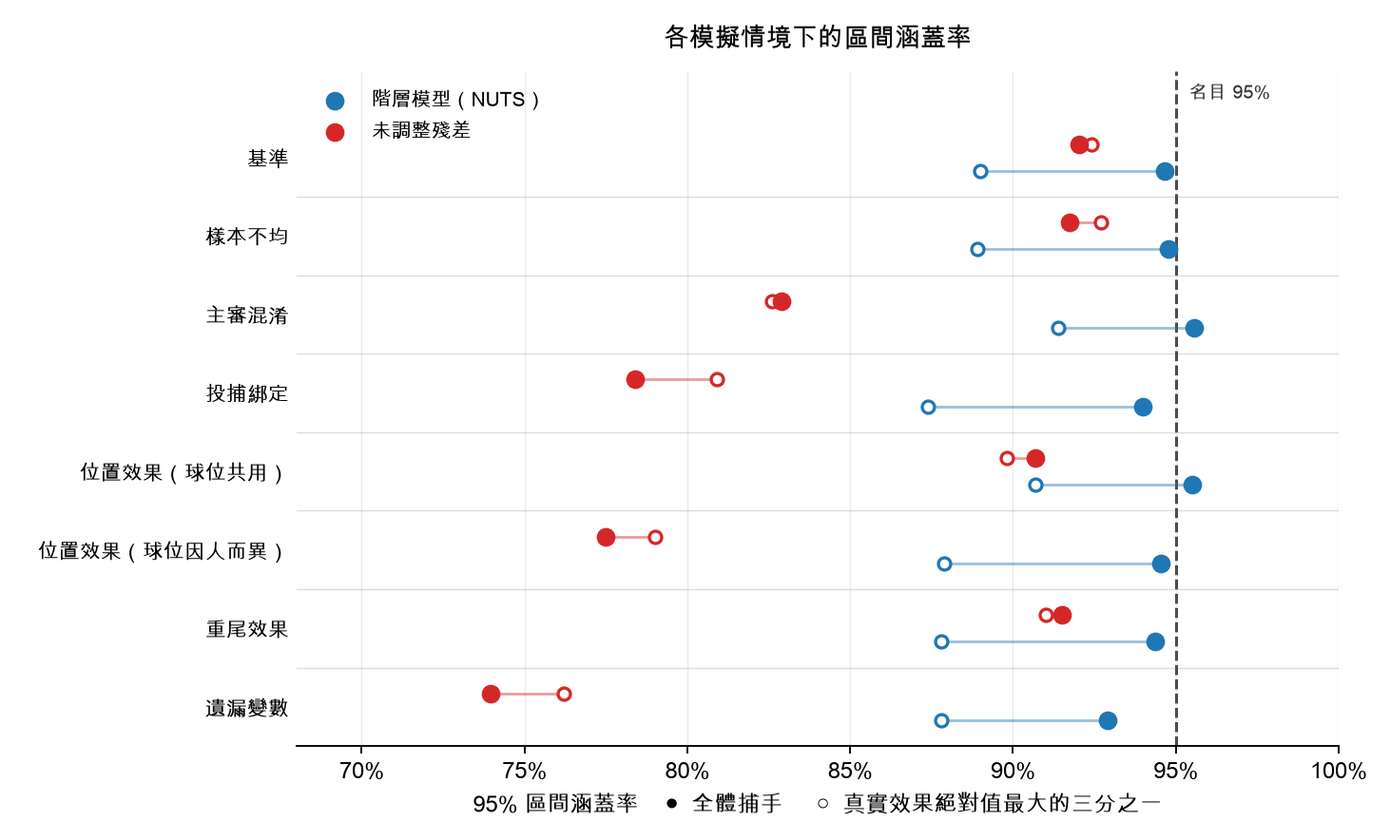
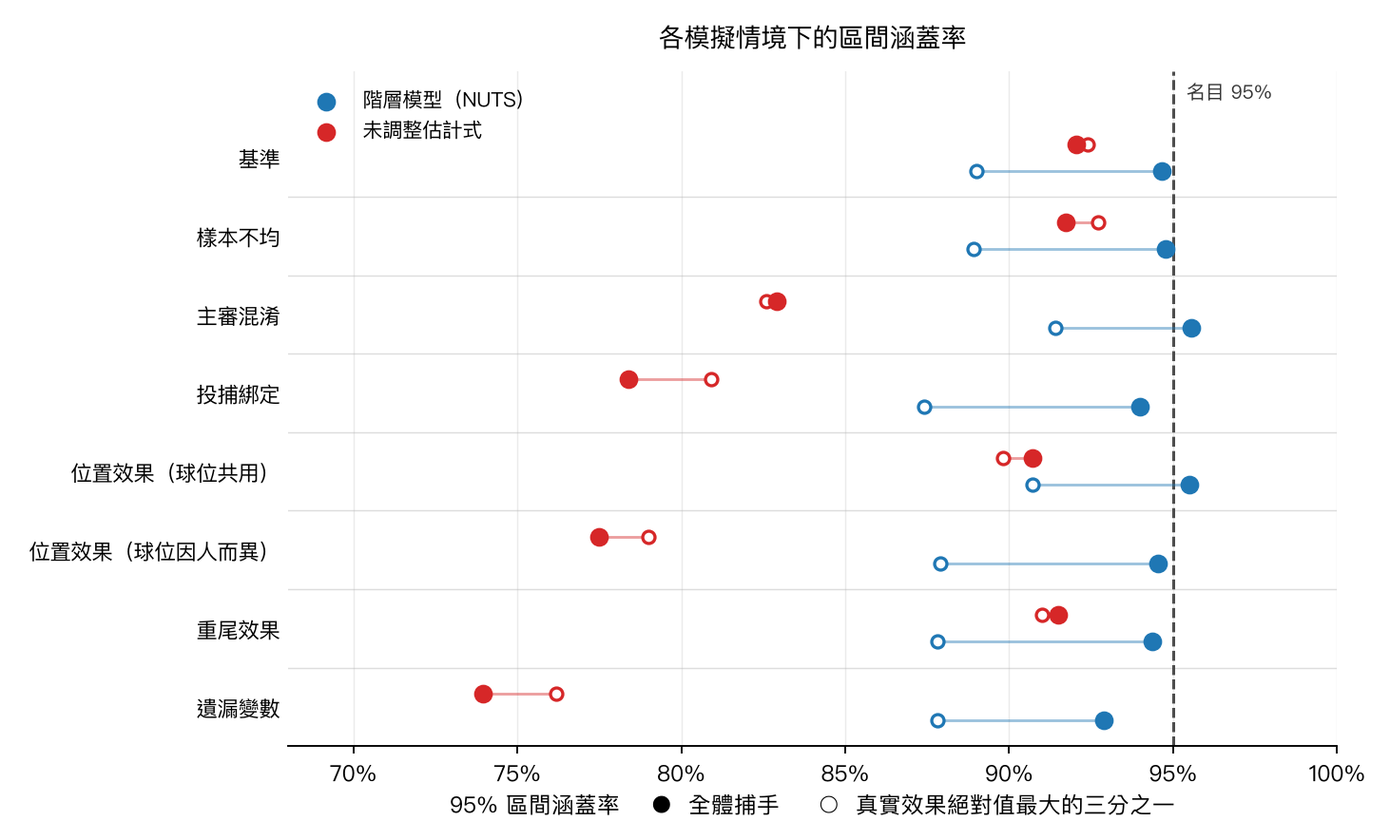
update readme and docs

diff --git a/scripts/make_figures_v2.py b/scripts/make_figures_v2.py
@@ -25,7 +25,7 @@ COLOR = {"hierarchical": "#1f77b4", "residual_runs": "#d62728", "abs": "#d95f02"
 LABELS = {
     "en": {
         "hier": "Hierarchical (NUTS)",
-        "resid": "Residual runs (unadjusted)",
+        "resid": "Unadjusted estimator",
         "nominal": "nominal 95%",
         "sweep_title": "How much confounding before the intervals stop meaning anything",
         "sweep_x": "Unmeasured confounding, relative to the true catcher effect",
@@ -52,7 +52,7 @@ LABELS = {
     },
     "zh": {
         "hier": "階層模型（NUTS）",
-        "resid": "未調整殘差",
+        "resid": "未調整估計式",
         "nominal": "名目 95%",
         "sweep_title": "混淆要多大，區間才會失去意義",
         "sweep_x": "未觀測混淆的大小（相對於真實捕手效果）",

diff --git a/README.md b/README.md
@@ -11,8 +11,8 @@ Some catchers get more strike calls than others on identical pitches. This proje
 **Three findings.**
 
 1. **Some catchers clearly differ from zero, but most adjacent ranks cannot be told apart.** In 2023, 27 of 102 catchers have intervals that exclude zero, and 99 of the 101 adjacent pairs in the ranking are ordered with posterior probability below 0.6. The estimates track Baseball Savant's published framing runs closely (r = 0.94).
-2. **A high correlation with Savant cannot validate the intervals; simulation exposed a coverage gap.** In the simulated confounding scenarios, the simpler residual method's nominal 95% intervals cover 74–83% of the true effects, while the hierarchical model's cover 92.9–95.6% in every scenario, with the baseline treated as known. On real data, the interval on the difference between the two methods' Savant correlations includes zero in four of five seasons, so that check does not separate them.
-3. **Baseline drift distorts the unadjusted residuals; in-model calibration absorbed this season-wide shift.** Fit on 2021–2022, the baseline overpredicts 2025's strike rate by 2.6 points, a shift that comparing log loss across seasons did not reveal. The hierarchical model takes it up in its intercept and still correlates 0.955 with Savant in 2025. The residual method falls to 0.647, and returns to 0.964 once two calibration parameters are re-estimated on that season.
+2. **A high correlation with Savant cannot validate the intervals; simulation exposed a coverage gap.** In the simulated confounding scenarios, nominal 95% intervals from the unadjusted estimator, the common direct approach that averages each catcher's actual minus expected calls, cover 74–83% of the true effects, while the hierarchical model's cover 92.9–95.6% in every scenario, with the baseline treated as known. On real data, the interval on the difference between the two methods' Savant correlations includes zero in four of five seasons, so that check does not separate them.
+3. **Baseline drift distorts the unadjusted estimator; in-model calibration absorbed this season-wide shift.** Fit on 2021–2022, the baseline overpredicts 2025's strike rate by 2.6 points, a shift that comparing log loss across seasons did not reveal. The hierarchical model takes it up in its intercept and still correlates 0.955 with Savant in 2025. The unadjusted estimator falls to 0.647, and returns to 0.964 once two calibration parameters are re-estimated on that season.
 
 <p align="center">
   <img src="docs/images/en/caterpillar_2023.png" width="720"><br>
@@ -33,13 +33,24 @@ This is the second version of the project. What the first version claimed, and w
 - **Estimand.** Δ, on the probability scale and averaged over each catcher's own pitches, is the explicit target, and the simulation scores both methods against the same true Δ.
 - **Out-of-sample design.** Five-fold cross-fitting split by game rather than by pitch. 2023 was locked during model selection, and 2024 and 2025 were fetched only after the design was fixed.
 - **Simulation.** Eight scenarios with 100 replications each, built on real pitch locations and workloads, plus a sweep of confounder strength that measures how large confounding has to be before the intervals fail.
-- **Diagnostics.** A breakdown of how the 2025 baseline drift affected the unadjusted residuals (their correlation with Savant fell to 0.647), and a check of how in-model calibration absorbed the season-wide shift.
+- **Diagnostics.** A breakdown of how the 2025 baseline drift affected the unadjusted estimator (its correlation with Savant fell to 0.647), and a check of how in-model calibration absorbed the season-wide shift.
 
 ---
 
 ## Data and design
 
-2021–2023 regular seasons, called pitches only (`called_strike` / `ball`): 1.06M pitches, 1.04M after a coordinate trim. Pitch data comes from Statcast via `pybaseball`; home-plate umpires come from the MLB Stats API, joined on `game_pk`. 2024 and 2025 (0.71M called pitches) were added after v2 was locked, as two more evaluation seasons; they do not enter the training data. 2026 is left out of v2 on purpose: the ABS challenge system went live that season, and it changes what a framing number means. The postscript takes it up separately.
+Regular seasons, called pitches only (`called_strike` / `ball`): 1.06M pitches in 2021–2023 (1.04M after a coordinate trim) and 0.71M in 2024–2025. Pitch data comes from Statcast via `pybaseball`; home-plate umpires come from the MLB Stats API, joined on `game_pk`. Each season has one role:
+
+| Season | Role | Baseline probabilities from |
+|---|---|---|
+| 2021–2022 | Training: model form, threshold and engine are chosen here | Five-fold cross-fitting, split by game |
+| 2023 | Held back while the design was chosen; v1 had already analyzed it, so it is not an untouched holdout | A model fit on the 2021–2022 training split |
+| 2024–2025 | Evaluation only, fetched after the design was fixed | The same model, never refit |
+| 2026 | Postscript on the ABS era, with a separate pipeline ([ABS.md](ABS.md)) | Refit within each season |
+
+2026 is outside the main analysis because the ABS challenge system went live that season, and it changes what a framing number means.
+
+Two estimators are compared throughout. The **unadjusted estimator** averages each catcher's actual minus expected calls; summed and multiplied by 0.125 runs per strike, that gives **unadjusted runs**. The **hierarchical model** divides the same residual among catcher, umpire and pitcher effects (section 4).
 
 Three design decisions matter most.
 
@@ -70,38 +81,36 @@ The count moves that band. Comparing hitter's counts with pitcher's counts *at t
 
 The raw 0-2 vs 3-0 gap in called-strike rate (8% vs 63%) is mostly a location artifact, since 3-0 pitches are aimed at the middle. Only after holding location fixed does a count-related difference in called-strike rate show up. Pitch type and velocity also differ by count, so that difference is not purely the umpire's.
 
-This section is carried over from v1; only the last sentence above was narrowed.
-
 ### 2. Baseline model, scored out of sample
 
-The model form is the same as v1's: a tensor spline over `plate_x` × standardized `plate_z`, plus additive terms for batter side, pitcher side, balls, and strikes. It is refit on the 2021–2022 training split and scored on held-out games.
+The model is a tensor spline over `plate_x` × standardized `plate_z`, plus additive terms for batter side, pitcher side, balls, and strikes. It is fit on the 2021–2022 training split and scored on held-out games.
 
 | | Log loss |
 |---|--:|
 | Train (in-sample) | 0.17346 |
 | Validation (out-of-sample, split by game) | 0.17149 |
 
-On this split there is no visible gap in overall log loss between the two (about 410 basis functions against 550,000 rows, with a penalty term). So v1's use of in-sample fit statistics was a methodological flaw that did not visibly inflate its fit. That does not mean none of v1's estimates were affected. The only other check is the Savant correlation in section 3, where re-estimating the baseline's intercept recovers most of the gap.
+On this split there is no visible gap in overall log loss between the two (about 410 basis functions against 550,000 rows, with a penalty term). Whether an in-sample baseline moves the framing estimates themselves is a separate question; section 3 checks it against Savant, where re-estimating the baseline's intercept recovers most of the gap.
 
 The model is never refit. By 2025 it overpredicts the overall strike rate by 2.6 points; section 7 covers where that drift comes from and what it does to the unadjusted estimator.
 
 Calibration is weaker. Out of fold, the model over-predicts strikes below p̂ = 0.5 and under-predicts above it, by 0.7 to 1.6 points across the shadow zone. The pattern is consistent on 100,000 held-out pitches: all three bins below 0.5 over-predict and all three above under-predict. Recalibrating moves every catcher's runs a little, but the largest and smallest shifts differ by only 0.32 runs, against a spread of 31.5 runs across the same 84 catchers, so the baseline was left as is. That check covers the 2021–2022 unadjusted runs only; τ, the posterior intervals and the evaluation seasons were not recomputed with a recalibrated baseline.
 
-### 3. What r = 0.990 does and does not show
+### 3. What agreement with Savant can and cannot show
 
-v1's main external check was the correlation between its unadjusted leaderboard and Savant's framing runs. On 2023 that correlation can now be taken apart ([`results/savant_decomposition.csv`](results/savant_decomposition.csv)):
+The usual external check on a framing estimate is its correlation with Savant's published framing runs. On 2023 that correlation can be taken apart ([`results/savant_decomposition.csv`](results/savant_decomposition.csv)):
 
 | Setup | r vs Savant |
 |---|--:|
-| v1: residual runs, all pitches, **in-sample** baseline | **0.990** |
-| residual runs, all pitches, out-of-sample baseline | 0.958 |
+| unadjusted runs, all pitches, **in-sample** baseline | **0.990** |
+| unadjusted runs, all pitches, out-of-sample baseline | 0.958 |
 | the same, with the baseline's intercept re-estimated on 2023 | 0.989 |
-| residual runs, shadow zone only, intercept re-estimated | 0.960 |
+| unadjusted runs, shadow zone only, intercept re-estimated | 0.960 |
 | hierarchical model, shadow zone, out-of-sample | 0.942 |
 
-Moving to an out-of-sample baseline costs 0.032; re-estimating a single number on 2023, the baseline's intercept, brings the correlation back to 0.989. The out-of-sample baseline overpredicts 2023's overall strike rate by 0.8 points, and unadjusted framing runs have no intercept, so a season-wide offset becomes a term proportional to playing time (section 7). Most of what separated v1's in-sample baseline from an out-of-sample one was therefore the season's overall strike rate, which Savant, presumably fitting within season, also has right. 2024 and 2025 behave the same way: with the intercept re-estimated, the unadjusted estimator reaches 0.990 and 0.988 against Savant.
+Moving to an out-of-sample baseline costs 0.032; re-estimating a single number on 2023, the baseline's intercept, brings the correlation back to 0.989. The out-of-sample baseline overpredicts 2023's overall strike rate by 0.8 points, and unadjusted runs have no intercept, so a season-wide offset becomes a term proportional to playing time (section 7). Most of what separates an in-sample baseline from an out-of-sample one is therefore the season's overall strike rate, which Savant, presumably fitting within season, also has right. 2024 and 2025 behave the same way: with the intercept re-estimated, the unadjusted estimator reaches 0.990 and 0.988 against Savant.
 
-Restricting to the shadow zone then costs 0.029, and switching to the hierarchical model another 0.018. That last step matters because this correlation cannot assess interval calibration. In the simulated confounded settings, unadjusted nominal 95% intervals cover as little as 74%, while the hierarchical intervals cover 92.9–95.6%; hierarchical RMSE is about 40% lower (section 6). These simulations condition on a known baseline and do not validate uncertainty in the entire two-stage pipeline. For the actual 2023 comparison against intercept-recalibrated residual runs, the correlation difference is −0.0182, with a paired catcher-bootstrap 95% interval of [−0.0360, +0.0015] ([`results/corrected_external_checks.csv`](results/corrected_external_checks.csv)). It includes zero; it does not establish equivalence. One intercept moves the correlation by 0.031, more than this estimator change. Agreement with Savant cannot independently confirm that either method isolated catcher skill.
+Restricting to the shadow zone then costs 0.029, and switching to the hierarchical model another 0.018. That last step matters because this correlation cannot assess interval calibration. In the simulated confounded settings, unadjusted nominal 95% intervals cover as little as 74%, while the hierarchical intervals cover 92.9–95.6%; hierarchical RMSE is about 40% lower (section 6). These simulations condition on a known baseline and do not validate uncertainty in the entire two-stage pipeline. For the actual 2023 comparison against intercept-recalibrated unadjusted runs, the correlation difference is −0.0182, with a paired catcher-bootstrap 95% interval of [−0.0360, +0.0015] ([`results/corrected_external_checks.csv`](results/corrected_external_checks.csv)). It includes zero; it does not establish equivalence. One intercept moves the correlation by 0.031, more than this estimator change. Agreement with Savant cannot independently confirm that either method isolated catcher skill.
 
 <p align="center">
   <img src="docs/images/en/framing_vs_official_2023.png" width="440">
@@ -109,11 +118,11 @@ Restricting to the shadow zone then costs 0.029, and switching to the hierarchic
 
 ### 4. Catcher, umpire, pitcher, with intervals
 
-The model is v1's: the baseline logit enters as a calibration covariate, and three crossed random intercepts compete for the residual. The engine is now NUTS (numpyro) instead of variational Bayes, run on the shadow-zone subset with a non-centered parameterization.
+The baseline logit enters as a calibration covariate, and three crossed random intercepts compete for the residual. The model is fit with NUTS (numpyro) on the shadow-zone subset, with a non-centered parameterization.
 
-The covariate's coefficient is estimated (1.089, with a 95% interval that excludes 1), so it is not an offset; fixing it at 1 has little effect on the train-pool results tested (METHODS §4.2). On identical 2022 shadow-zone data, NUTS and VB per-catcher effects correlate at r = 0.9999. That is evidence of similar ordering, not equality of effect magnitudes or a validation of every v1 fit. NUTS supplies the joint posterior needed for within-fit comparisons below.
+The covariate's coefficient is estimated (1.089, with a 95% interval that excludes 1), so it is not an offset; fixing it at 1 has little effect on the train-pool results tested (METHODS §4.2). NUTS supplies the joint posterior needed for within-fit comparisons below.
 
-2023, the season v1 reported:
+2023:
 
 | | posterior mean | 95% interval |
 |---|--:|---|
@@ -123,7 +132,7 @@ The covariate's coefficient is estimated (1.089, with a 95% interval that exclud
 
 P(τ_umpire > τ_catcher) = 0.81.
 
-So v1's ordering reproduces on 2023. Running the same fit on each season gives the table below. 2024 and 2025 were added after v2 was locked and are fit the same way as 2023 (section 7).
+Running the same fit on each season gives the table below. 2024 and 2025 were added after v2 was locked and are fit the same way as 2023 (section 7).
 
 | | P(τ_umpire > τ_catcher) |
 |---|--:|
@@ -134,7 +143,7 @@ So v1's ordering reproduces on 2023. Running the same fit on each season gives t
 | 2025 | 0.74 |
 | 2021–2022 pooled | 0.46 |
 
-The ordering flips between 2021 and 2022. In the other four seasons it leans toward the umpire, but no season reaches 0.95. v1's numbers were not wrong; they reproduce closely. The problem is that v1 stated the ordering as a finding about baseball, when in one of the three seasons it had, the ordering is close to a coin flip. The two later seasons make the lean more consistent without making it decisive.
+The ordering flips between 2021 and 2022. In the other four seasons it leans toward the umpire, but no season reaches 0.95.
 
 The point estimates of all three components are smaller in 2025 than in 2023: catcher 0.200 to 0.172, umpire 0.226 to 0.188, pitcher 0.202 to 0.178. Overlapping intervals do not establish no change. Using the product of the independently fitted marginal posteriors, P(τ_2025 < τ_2023) is 0.843 for catcher, 0.926 for umpire and 0.795 for pitcher ([`results/variance_components.csv`](results/variance_components.csv)). Matching draw indices had overstated these probabilities; the corrected calculation is invariant to sample order. The baseline also fits 2025 worst (section 7). Calibration errors and omitted variables can distort the components, but their direction depends on their relation to catcher, umpire and pitcher; there is no general rule that they all move toward zero. These results do not separate a change in baseball from a change in model adequacy.
 
@@ -182,7 +191,7 @@ What the intervals do not survive is a larger version of that omitted covariate.
 
 Coverage holds while the confounder stays below about half the size of the catcher effect, falls to 88% when the two are equal, and reaches 66% at twice. The scenario also concentrates battery pairings, which is why the unadjusted estimator starts at 78% even with no confounder.
 
-v1's Limitations mentioned in one sentence that catchers are not randomly assigned to pitchers. The battery scenario tests that directly, and the hierarchical model passes it at 94.0%. The sweep measures something else: a variable that follows the catcher and never appears in the data.
+Catchers are not randomly assigned to pitchers. The battery scenario tests that directly, and the hierarchical model passes it at 94.0%. The sweep measures something else: a variable that follows the catcher and never appears in the data.
 
 One result was not planned. In this figure, hollow markers select the largest third of **absolute true effects**, and cover about 4–7 percentage points less often than the full set in these simulated settings, including the baseline. The unadjusted estimator does not show the same systematic gap. These are empirical results of this design, not a general guarantee about either estimator.
 
@@ -208,15 +217,15 @@ The simulation separates the two estimators clearly on intervals (74% coverage a
 
 The 2025 row separates them, but not for the reason the simulation studies. The baseline was fit on 2021–2022 and never refit, and by 2025 it overpredicts called strikes by 2.6 points across the whole season (0.358 against 0.332; in 2023 and 2024 the gap is 0.6 to 0.8). The called zone narrowed in raw `plate_x`, and Statcast's `sz_top` rose. The overall log loss gave no warning, though log loss is not comparable across seasons anyway (METHODS §4.1).
 
-Unadjusted framing runs multiply the mean residual by pitch count and 0.125, so average baseline error creates a volume-related term: in 2025, residual runs correlate −0.60 with shadow-zone pitch count, versus +0.18 for Savant. The hierarchical intercept and slope can absorb the global calibration component, without guaranteeing correction of catcher-specific errors. Re-estimating those two parameters on the 2025 shadow zone raises residual runs’ Savant correlation to 0.964. A logit-intercept correction is not a uniform probability shift: in 2025, catcher-specific per-pitch corrections range from 10.08 to 11.97 percentage points. Its measured effect on adjacent-season correlations is small: 2024→2025 changes from 0.61657 to 0.61609 with intercept recalibration, or 0.61616 with intercept and slope ([`results/per_pitch_recalibration.csv`](results/per_pitch_recalibration.csv)). These are post-hoc diagnostics using the observed seasons, not new held-out validation ([`results/baseline_transport.csv`](results/baseline_transport.csv), [`results/baseline_drift.csv`](results/baseline_drift.csv)).
+Unadjusted runs multiply the mean residual by pitch count and 0.125, so average baseline error creates a volume-related term: in 2025, unadjusted runs correlate −0.60 with shadow-zone pitch count, versus +0.18 for Savant. The hierarchical intercept and slope can absorb the global calibration component, without guaranteeing correction of catcher-specific errors. Re-estimating those two parameters on the 2025 shadow zone raises unadjusted runs’ Savant correlation to 0.964. A logit-intercept correction is not a uniform probability shift: in 2025, catcher-specific per-pitch corrections range from 10.08 to 11.97 percentage points. Its measured effect on adjacent-season correlations is small: 2024→2025 changes from 0.61657 to 0.61609 with intercept recalibration, or 0.61616 with intercept and slope ([`results/per_pitch_recalibration.csv`](results/per_pitch_recalibration.csv)). These are post-hoc diagnostics using the observed seasons, not new held-out validation ([`results/baseline_transport.csv`](results/baseline_transport.csv), [`results/baseline_drift.csv`](results/baseline_drift.csv)).
 
 What the row shows is narrow. The unadjusted estimator has nowhere to put a calibration error in its baseline, and a baseline three seasons old costs it 0.31 in agreement with Savant. It does not show that the hierarchical model measures framing better. Refitting the baseline every season, which is the usual practice, would most likely have prevented the drop.
 
-So the external checks still cannot do what the simulation does. As long as the baseline is calibrated, they see only the part where the two estimators differ least, and mostly without enough precision to see even that. This is also why r = 0.990 was never validation: a check that cannot tell a good estimator from a bad one says nothing about which one you have.
+So the external checks still cannot do what the simulation does. As long as the baseline is calibrated, they see only the part where the two estimators differ least, and mostly without enough precision to see even that. This is also why a high correlation with Savant is not validation: a check that cannot tell a good estimator from a bad one says nothing about which one you have.
 
 ### 8. Reliability and persistence
 
-The split-half reliability is carried over from v1 and was not re-examined in this round. Splitting each catcher's pitches at random into halves gives r = 0.82 (mean of 50 splits), or R = 0.90 after correcting back to full-season length with Spearman–Brown. It uses the unadjusted residual rate rather than the hierarchical estimates, so that half-seasons and full seasons stay comparable without refitting the mixed model each time. It also uses v1's in-sample baseline, which section 3 shows can move a correlation.
+The split-half reliability is carried over from v1 and was not re-examined in this round. Splitting each catcher's pitches at random into halves gives r = 0.82 (mean of 50 splits), or R = 0.90 after correcting back to full-season length with Spearman–Brown. It uses the unadjusted estimator, as a rate per pitch, rather than the hierarchical estimates, so that half-seasons and full seasons stay comparable without refitting the mixed model each time. It also uses v1's in-sample baseline, which section 3 shows can move a correlation.
 
 Persistence has been redone. With 2024 and 2025 in, the single-season estimates behind sections 4 and 7 give ten pairs of seasons, all out of sample and on the shadow zone, among catchers with at least 300 shadow-zone pitches in both seasons ([`results/year_over_year.csv`](results/year_over_year.csv)). Hierarchical estimates:
 
@@ -227,11 +236,9 @@ Persistence has been redone. With 2024 and 2025 in, the single-season estimates 
 | 3 years | 2021→24 0.09, 2022→25 0.47 | 0.28 |
 | 4 years | 2021→25 0.19 | 0.19 |
 
-The unadjusted estimator gives nearly the same numbers, as section 7 found (one-year mean 0.60; v1's in-sample 2022 → 2023 figure of 0.599 comes out at 0.54 here).
+The unadjusted estimator gives nearly the same numbers, as section 7 found (one-year mean 0.60).
 
-v1 read its three seasons as AR(1). Consecutive seasons correlated at 0.603 and a two-year gap dropped to 0.320, close to 0.603² = 0.364, so framing looked like a trait that drifts a little each year. Squaring the one-year correlation ignores measurement error, which makes the predicted two-year figure too low, so that check was tilted toward seeing drift. That two-year figure rested on a single pair, 2021 → 2023, and with more seasons that pair turns out to be the lowest of three. The other two-year pairs sit at 0.54 and 0.59, about where the one-year pairs do, and 2022 → 2025 is still 0.47. Leaving 2021 aside, the correlations barely decay, which looks more like a stable trait measured with noise than like drift. With 2021 in, they decay. Each pair has only 30 to 48 catchers, so a correlation of 0.5 carries an interval of roughly ±0.25, and the catchers who last four seasons are not a random sample. The data do not settle which reading is right. They do show that v1's rested on the one pair least like the others.
-
-v1's pooled 2021–2023 fit (Jose Trevino leading at +40 runs over three years), its persistence matrix and the catcher trajectories all use v1's in-sample baseline, and they remain in [v1's README](../../blob/v1.0/README.md#6-three-seasons).
+Consecutive seasons correlate at about 0.60. Beyond one year, the picture depends on 2021. Of the two-year pairs, 2021 → 2023 is the lowest at 0.22; the other two sit at 0.54 and 0.59, about where the one-year pairs do, and 2022 → 2025 is still 0.47. Leaving 2021 aside, the correlations barely decay, which looks more like a stable trait measured with noise than like a trait that drifts each year. With 2021 in, they decay. Each pair has only 30 to 48 catchers, so a correlation of 0.5 carries an interval of roughly ±0.25, and the catchers who last four seasons are not a random sample. The data do not settle which reading is right.
 
 ---
 
@@ -251,7 +258,7 @@ Framing runs over shadow-zone pitches, with 95% credible intervals, next to Sava
 | J.T. Realmuto | 1,445 | −6.7 | [−11.9, −1.7] | −14.4 |
 | Martín Maldonado | 1,154 | −7.4 | [−11.7, −3.0] | −15.7 |
 
-The names at both ends match v1. Hedges, Álvarez and Bailey led v1's 2023 table too, and Maldonado and Ruiz were two of its bottom three. What changed is how much confidence the list can carry: 40 of the 63 qualified catchers have intervals that include zero.
+The ends of the list are firmer than the middle: 40 of the 63 qualified catchers have intervals that include zero.
 
 ---
 
@@ -271,6 +278,14 @@ The original analysis is unchanged and still available at tag [`v1.0`](../../tre
 | The leaderboard ranks catchers on point values alone | **Partly supported.** 23 of 63 qualified catchers have intervals excluding zero; most adjacent ranks are coin flips |
 | r = 0.990 against Savant shows the location model is sound | **The correlation does not establish this.** Section 2 supplies out-of-sample predictive and calibration checks, with limitations. One re-estimated intercept restores the Savant correlation to 0.989; that agreement cannot assess interval calibration |
 | The variational fit behind all of this had not converged | **Similar ordering in the tested subset.** On the same 2022 shadow-zone data, per-catcher VB and NUTS effects correlate at r = 0.9999. This does not establish equal magnitudes or make every unconverged v1 fit harmless |
+
+On the umpire–catcher ordering, v1's numbers were not wrong; they reproduce closely on 2023 (section 4). The problem is that v1 stated the ordering as a finding about baseball, when in one of the three seasons it had, the ordering is close to a coin flip. The two later seasons make the lean more consistent without making it decisive.
+
+v1 also reported its baseline's fit statistics in sample. On the split in section 2 that did not visibly inflate the fit, but that does not mean none of v1's estimates were affected. The in-sample baseline is the first row of the table in section 3.
+
+v1 read its three seasons as AR(1). Consecutive seasons correlated at 0.603 and a two-year gap dropped to 0.320, close to 0.603² = 0.364, so framing looked like a trait that drifts a little each year. Squaring the one-year correlation ignores measurement error, which makes the predicted two-year figure too low, so that check was tilted toward seeing drift. The two-year figure also rested on a single pair, 2021 → 2023, which with more seasons turns out to be the lowest of three (section 8). v1's in-sample 2022 → 2023 figure of 0.599 comes out at 0.54 out of sample.
+
+The names at both ends of the 2023 leaderboard match v1: Hedges, Álvarez and Bailey led v1's 2023 table too, and Maldonado and Ruiz were two of its bottom three. v1's pooled 2021–2023 fit (Jose Trevino leading at +40 runs over three years), its persistence matrix and the catcher trajectories all use v1's in-sample baseline, and they remain in [v1's README](../../blob/v1.0/README.md#6-three-seasons).
 
 ---
 

diff --git a/METHODS.md b/METHODS.md
@@ -22,10 +22,10 @@ The zero-mean random-effect prior anchors the reference on the logit scale; the 
 
 **Procedures compared against this estimand.** Two:
 
-- **Unadjusted residuals** (the v1 approach): `mean(actual − baseline predicted)` over the catcher’s pitches, with binomial standard-error intervals. This is a proxy for Δ: interpreting it as that same contrast requires the baseline to represent the zero-effect receiver on those pitches. Umpire/pitcher contributions and the difference between a marginal baseline and the conditional reference can violate this, even when assignments are independent.
+- **Unadjusted estimator** (the v1 approach): `mean(actual − baseline predicted)` over the catcher’s pitches, with binomial standard-error intervals. Summed and multiplied by 0.125 runs per strike, it gives unadjusted runs. This is a proxy for Δ: interpreting it as that same contrast requires the baseline to represent the zero-effect receiver on those pitches. Umpire/pitcher contributions and the difference between a marginal baseline and the conditional reference can violate this, even when assignments are independent.
 - **Hierarchical model**: crossed random intercepts for catcher, umpire and pitcher on the residual, with the baseline logit entering as a calibration covariate whose coefficient is estimated rather than fixed at 1. Δ is computed per posterior draw and summarized.
 
-Δ is used instead of the logit-scale coefficient `u_catcher` because the residual method has no such coefficient. Evaluating both procedures against a probability-scale truth matches the units of the published leaderboard; it does not establish that unadjusted residuals are unbiased for the same conditional contrast.
+Δ is used instead of the logit-scale coefficient `u_catcher` because the unadjusted estimator has no such coefficient. Evaluating both procedures against a probability-scale truth matches the units of the published leaderboard; it does not establish that the unadjusted estimator is unbiased for the same conditional contrast.
 
 ---
 
@@ -42,7 +42,7 @@ The whole measure rests on the residual `actual − predicted`. A baseline model
 
 The two schemes differ in form, but both are out of sample.
 
-On this measure, skipping the step matters less than it first appeared. On 2023, the same unadjusted estimator correlates with Savant at 0.990 using an in-sample baseline and 0.958 using an out-of-sample one. Re-estimating only the out-of-sample baseline's intercept on 2023 brings it to 0.989 ([`results/savant_decomposition.csv`](results/savant_decomposition.csv)). So most of the gap is the season's overall strike rate, which a baseline from other seasons does not have, and which residual runs, lacking an intercept, turn into a term proportional to playing time. Before the correction, a catcher's runs correlate −0.38 with the number of pitches he received; after it, −0.16, close to Savant's −0.14. The remaining difference is small, but it is not a measurement of flattened residuals: the 0.990 and the 0.989 come from different pipelines. Re-estimating one parameter on 2023 is itself in-sample, but a single intercept cannot overfit 350,000 pitches. The case for out-of-sample baselines rests on the argument at the top of this section, not on this number. Cross-fitting within 2021–2022 has much less of this problem, because every fold's model is fit on the same two seasons it predicts. It is not zero: the pooled fit sits between the two seasons, under-predicting 2021's overall strike rate by 0.24 points and over-predicting 2022's by 0.24. The train-only model applied to 2023–2025 is off by 0.6 to 2.6 points (§4.1).
+On this measure, skipping the step matters less than it first appeared. On 2023, the same unadjusted estimator correlates with Savant at 0.990 using an in-sample baseline and 0.958 using an out-of-sample one. Re-estimating only the out-of-sample baseline's intercept on 2023 brings it to 0.989 ([`results/savant_decomposition.csv`](results/savant_decomposition.csv)). So most of the gap is the season's overall strike rate, which a baseline from other seasons does not have, and which unadjusted runs, lacking an intercept, turn into a term proportional to playing time. Before the correction, a catcher's runs correlate −0.38 with the number of pitches he received; after it, −0.16, close to Savant's −0.14. The remaining difference is small, but it is not a measurement of flattened residuals: the 0.990 and the 0.989 come from different pipelines. Re-estimating one parameter on 2023 is itself in-sample, but a single intercept cannot overfit 350,000 pitches. The case for out-of-sample baselines rests on the argument at the top of this section, not on this number. Cross-fitting within 2021–2022 has much less of this problem, because every fold's model is fit on the same two seasons it predicts. It is not zero: the pooled fit sits between the two seasons, under-predicting 2021's overall strike rate by 0.24 points and over-predicting 2022's by 0.24. The train-only model applied to 2023–2025 is off by 0.6 to 2.6 points (§4.1).
 
 ### 2.2 Splitting by game, not by pitch
 
@@ -342,7 +342,7 @@ data/
   official.py          Baseball Savant framing leaderboard (comparison)
 models/
   baseline_gam.py      v1 first-stage GAM strike-probability model
-  framing_runs.py      v1 unadjusted residual framing runs
+  framing_runs.py      v1 unadjusted runs
   hierarchical.py      v1 two-stage crossed random-effects model (VB)
   reliability.py       split-half and year-over-year reliability
   splits.py            train/validation by game, 2023 locked

diff --git a/METHODS.zh-TW.md b/METHODS.zh-TW.md
@@ -22,10 +22,10 @@
 
 **拿來對照這個估計目標的做法。** 共兩個：
 
-- **未調整殘差**（v1 的做法）：在捕手的球上算 `mean(實際 − 基準預測)`，區間使用二項式標準誤。它是 Δ 的代理估計；要解讀成相同對比，基準必須代表這批球的零效應參考捕手。主審／投手的貢獻，以及邊際基準與條件參考值的差異，都可能破壞這個條件，即使指派彼此獨立也一樣。
+- **未調整估計式**（v1 的做法）：在捕手的球上算 `mean(實際 − 基準預測)`，區間使用二項式標準誤。加總後乘上每顆好球 0.125 分，就是未調整 runs。它是 Δ 的代理估計；要解讀成相同對比，基準必須代表這批球的零效應參考捕手。主審／投手的貢獻，以及邊際基準與條件參考值的差異，都可能破壞這個條件，即使指派彼此獨立也一樣。
 - **階層模型**：捕手、主審、投手三組交叉隨機截距放在殘差上，基準 logit 以校準共變量進入，係數是估計出來的，不是固定為 1。Δ 逐一後驗抽樣計算後再摘要。
 
-選 Δ 而不選 logit 係數 `u_catcher`，是因為未調整殘差沒有這個係數。用機率尺度真值評分兩種做法，讓比較與發表榜單的單位相同；這不代表未調整殘差對同一個條件對比是無偏的。
+選 Δ 而不選 logit 係數 `u_catcher`，是因為未調整估計式沒有這個係數。用機率尺度真值評分兩種做法，讓比較與發表榜單的單位相同；這不代表未調整估計式對同一個條件對比是無偏的。
 
 ---
 
@@ -42,7 +42,7 @@
 
 兩種做法形式不同，但都是樣本外。
 
-就這個指標來說，省略這一步的影響比乍看之下小。在 2023 上，同一個未調整估計式，用樣本內基準時對 Savant 的相關是 0.990，用樣本外基準是 0.958。只在 2023 上重估樣本外基準的截距，就回到 0.989（[`results/savant_decomposition.csv`](results/savant_decomposition.csv)）。所以這段落差大部分是這一季的整體好球率：用別的球季擬合的基準抓不到它，而沒有截距的 residual runs 會把它變成一項跟上場量成正比的東西。修正之前，捕手的 runs 與他接的球數相關 −0.38，修正之後是 −0.16，接近 Savant 的 −0.14。剩下的差距很小，但它不是在量殘差被壓平的程度，因為 0.990 和 0.989 來自不同的流程。在 2023 上重估一個參數本身也是樣本內，但一個截距不可能對 35 萬顆球過擬合。樣本外基準的理由，建立在本節開頭的論證上，而不是這個數字。2021–2022 內部的 cross-fitting 這個問題小得多，因為每一折的模型都擬合在它要預測的同樣兩季上。但不是零：合併的擬合落在兩季之間，把 2021 的整體好球率低估 0.24 個百分點、2022 高估 0.24 個百分點。拿到 2023–2025 用的 train-only 模型則差了 0.6 到 2.6 個百分點（§4.1）。
+就這個指標來說，省略這一步的影響比乍看之下小。在 2023 上，同一個未調整估計式，用樣本內基準時對 Savant 的相關是 0.990，用樣本外基準是 0.958。只在 2023 上重估樣本外基準的截距，就回到 0.989（[`results/savant_decomposition.csv`](results/savant_decomposition.csv)）。所以這段落差大部分是這一季的整體好球率：用別的球季擬合的基準抓不到它，而沒有截距的未調整 runs 會把它變成一項跟上場量成正比的東西。修正之前，捕手的 runs 與他接的球數相關 −0.38，修正之後是 −0.16，接近 Savant 的 −0.14。剩下的差距很小，但它不是在量殘差被壓平的程度，因為 0.990 和 0.989 來自不同的流程。在 2023 上重估一個參數本身也是樣本內，但一個截距不可能對 35 萬顆球過擬合。樣本外基準的理由，建立在本節開頭的論證上，而不是這個數字。2021–2022 內部的 cross-fitting 這個問題小得多，因為每一折的模型都擬合在它要預測的同樣兩季上。但不是零：合併的擬合落在兩季之間，把 2021 的整體好球率低估 0.24 個百分點、2022 高估 0.24 個百分點。拿到 2023–2025 用的 train-only 模型則差了 0.6 到 2.6 個百分點（§4.1）。
 
 ### 2.2 依場次切分，不依單顆球
 
@@ -342,7 +342,7 @@ data/
   official.py          Baseball Savant framing 榜單（對照用）
 models/
   baseline_gam.py      v1 第一層 GAM 好球機率模型
-  framing_runs.py      v1 未調整殘差 framing runs
+  framing_runs.py      v1 未調整 runs
   hierarchical.py      v1 兩階段交叉隨機效應模型（VB）
   reliability.py       split-half 與跨季信度
   splits.py            依場次切訓練／驗證，2023 保留
